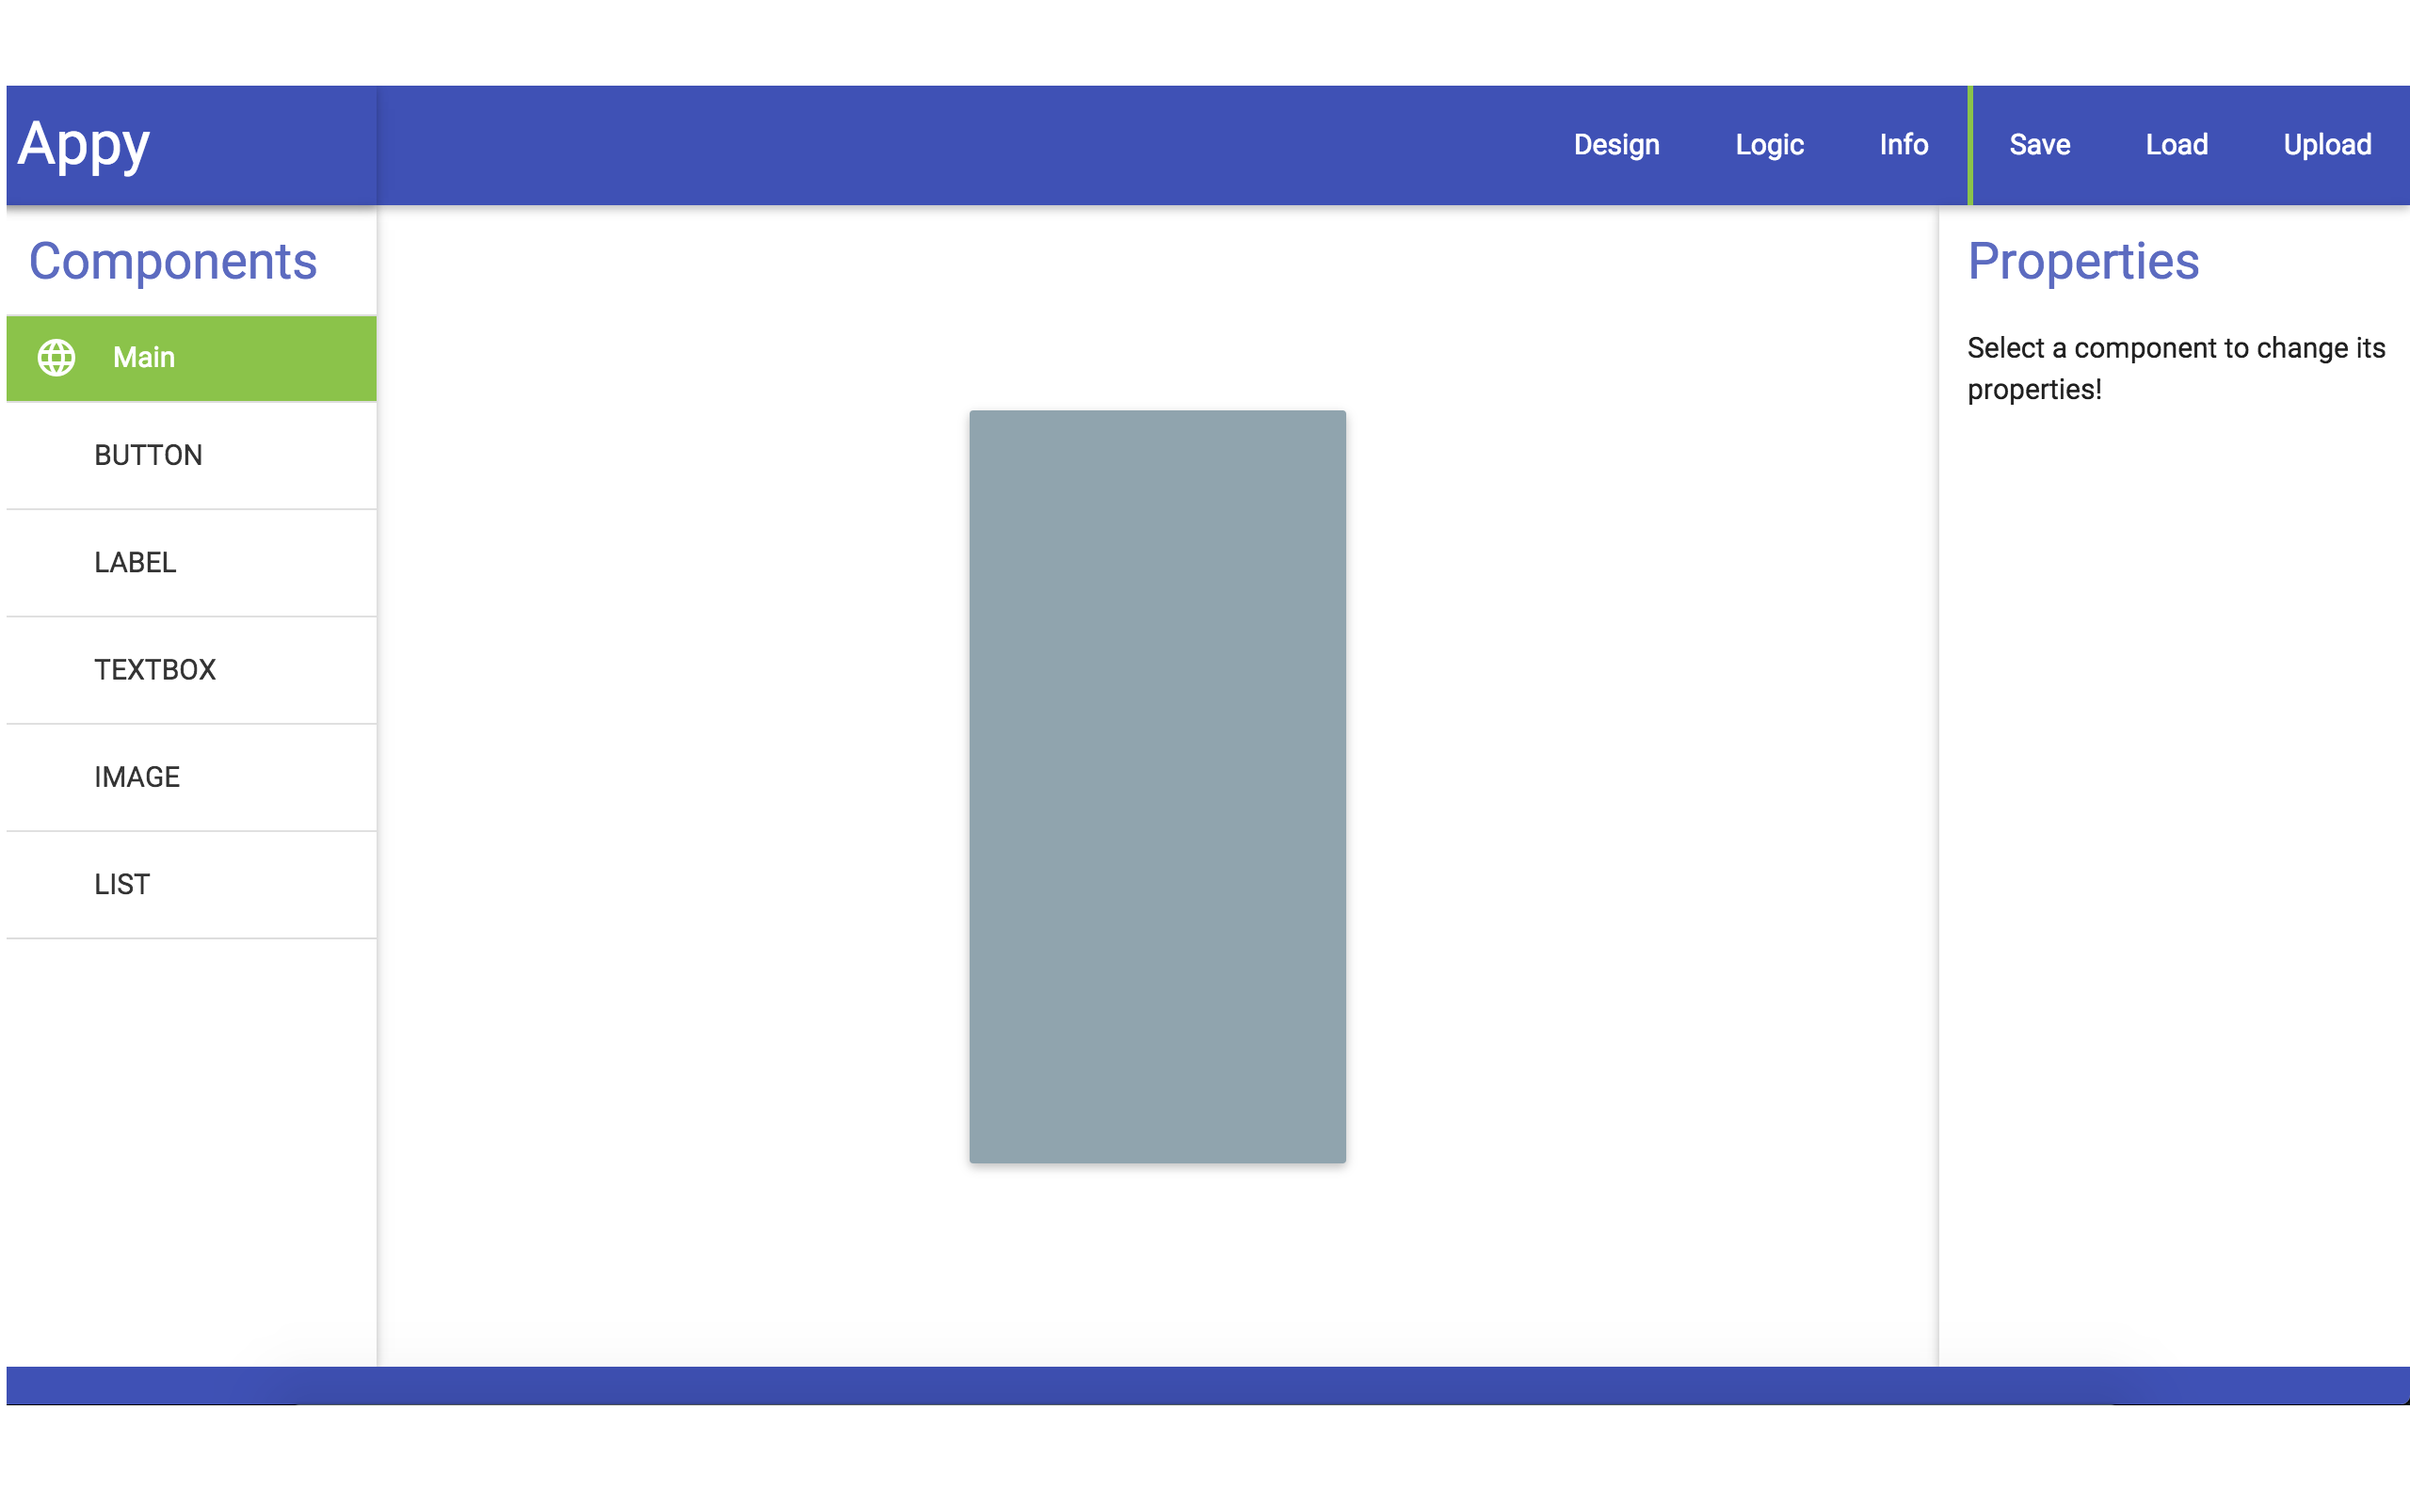
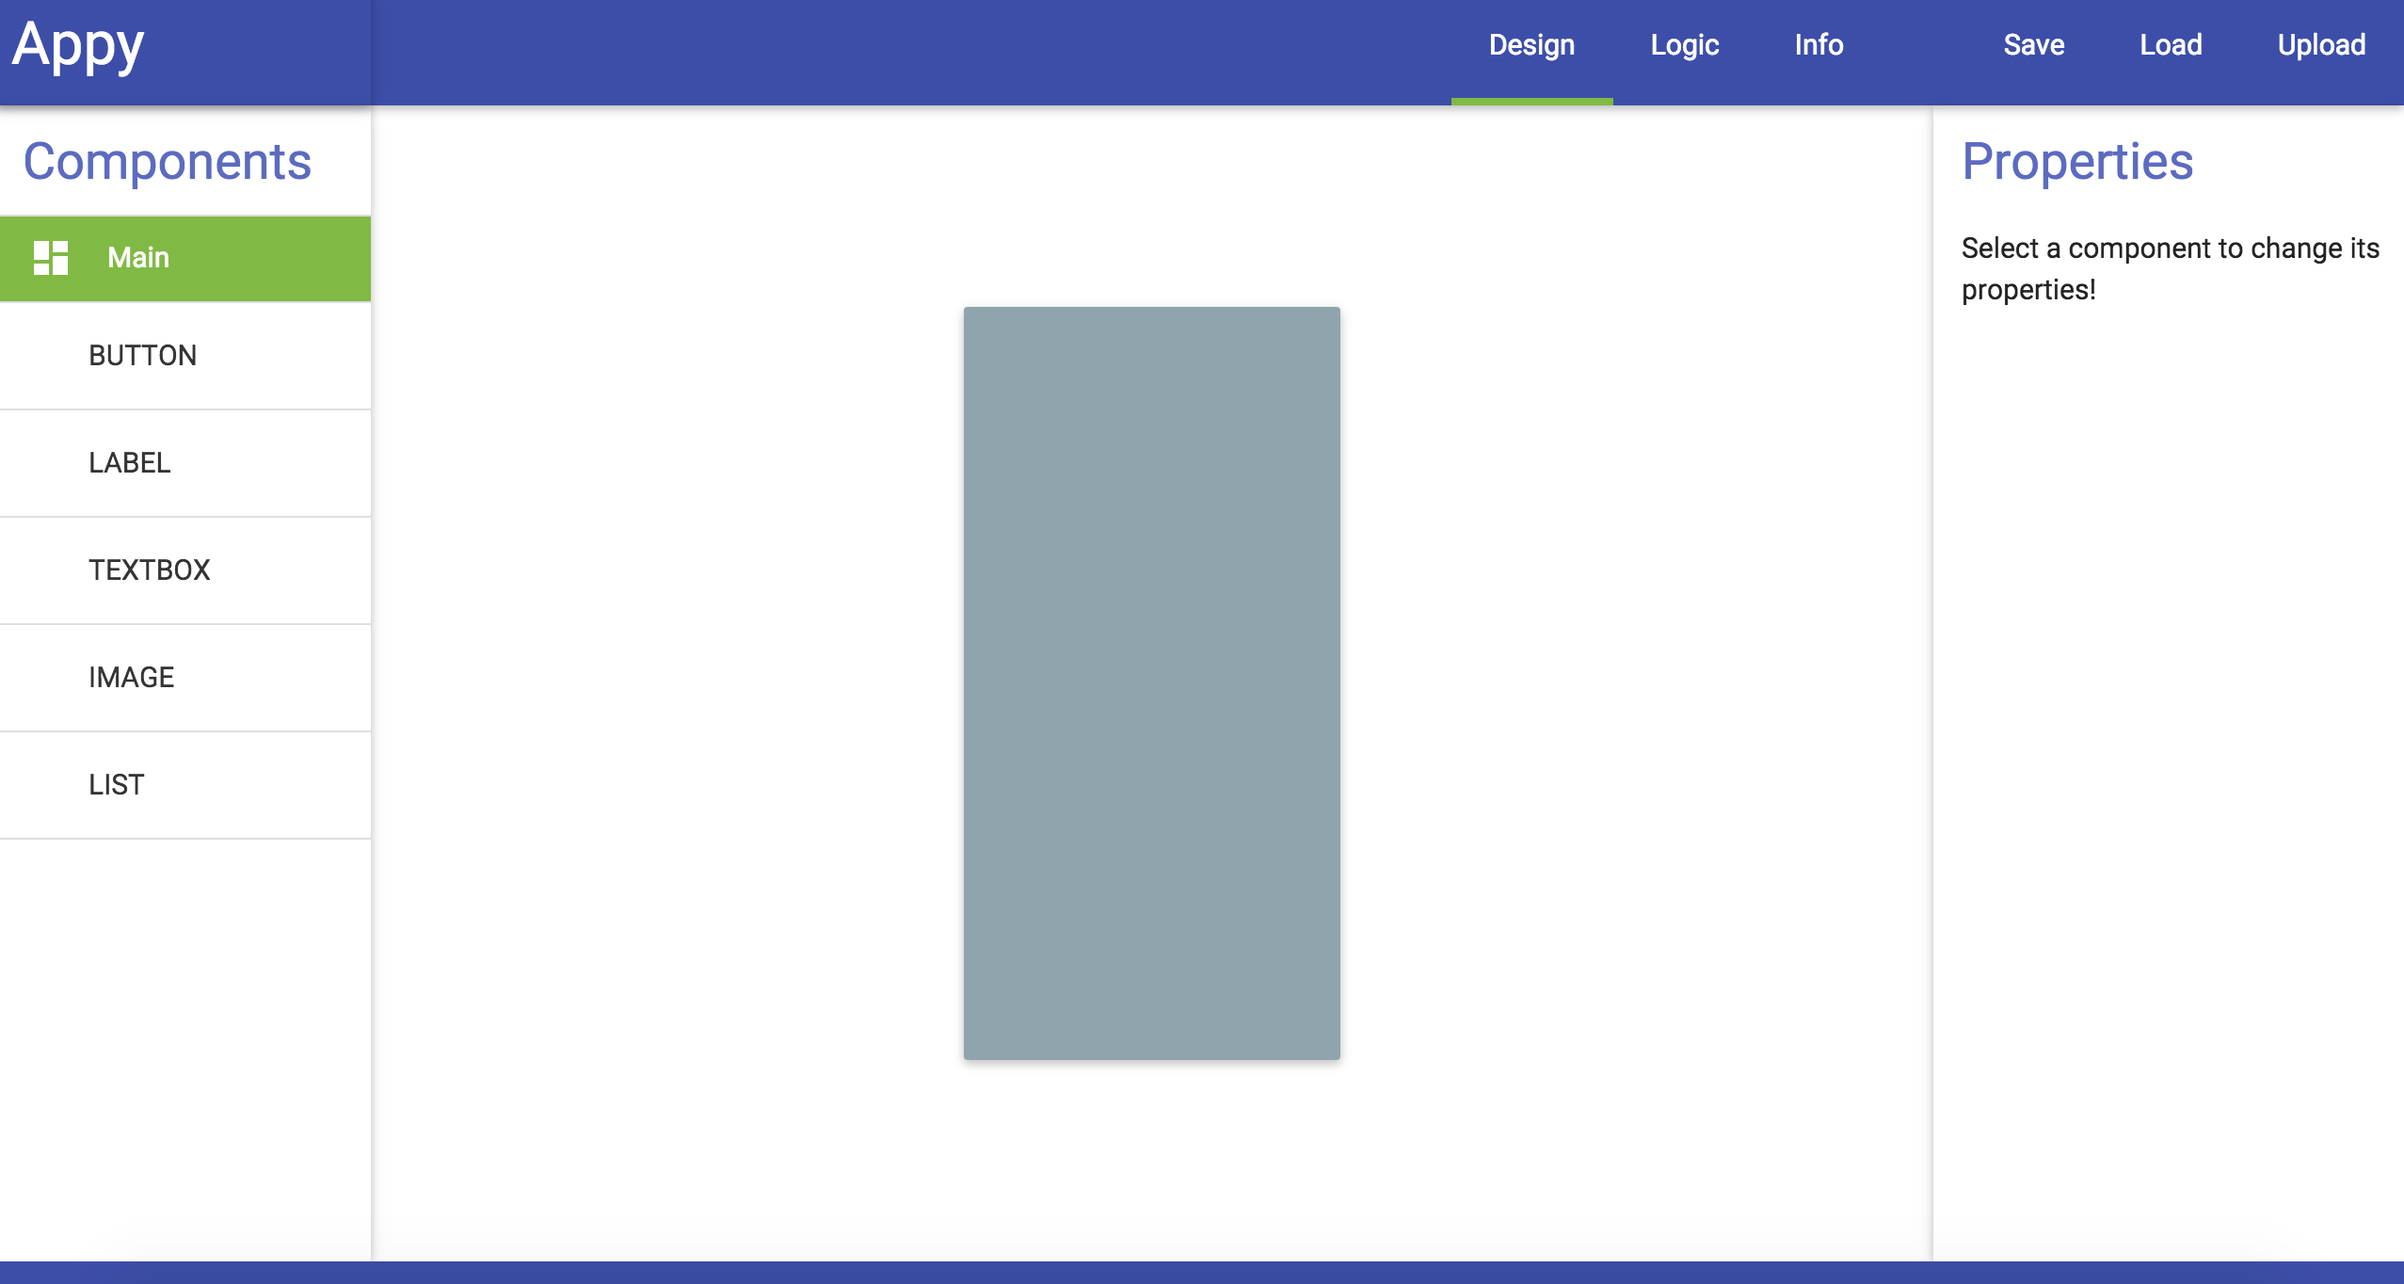
updated outdated gifs & pictures

diff --git a/index.html b/index.html
@@ -91,7 +91,7 @@
         <h3>Design</h3>
         <div class="divider"></div>
         <div class="section">
-          <img class="responsive-img wide" data-gifffer="img/editor/editor.png">
+          <img class="responsive-img wide" src="img/editor/editor.png">
           <p>
             The editor is used to create the visual part of your application.
             On your left you have a list of components. With these components you create the application that you want.
@@ -102,7 +102,7 @@
             You can also resize the component if you want to. You do this by putting your cursor in the right bottom corner of the component.
             Then you just drag to the size you want.
           </p>
-          <img class="responsive-img wide" data-gifffer="https://i.gyazo.com/8daf9cc2e7ea96eb98b70829b8393aed.gif">
+          <img class="responsive-img wide" data-gifffer="https://i.gyazo.com/b605a02fe2affee9c16c4de872b795cc.gif">
           <p>
             On the right side of the editor you have the properties section. Here you can edit the properties of the components on the smartphone panel individually.
             More info about the components and their properties can be found in the <a href="#components">components</a> section.
